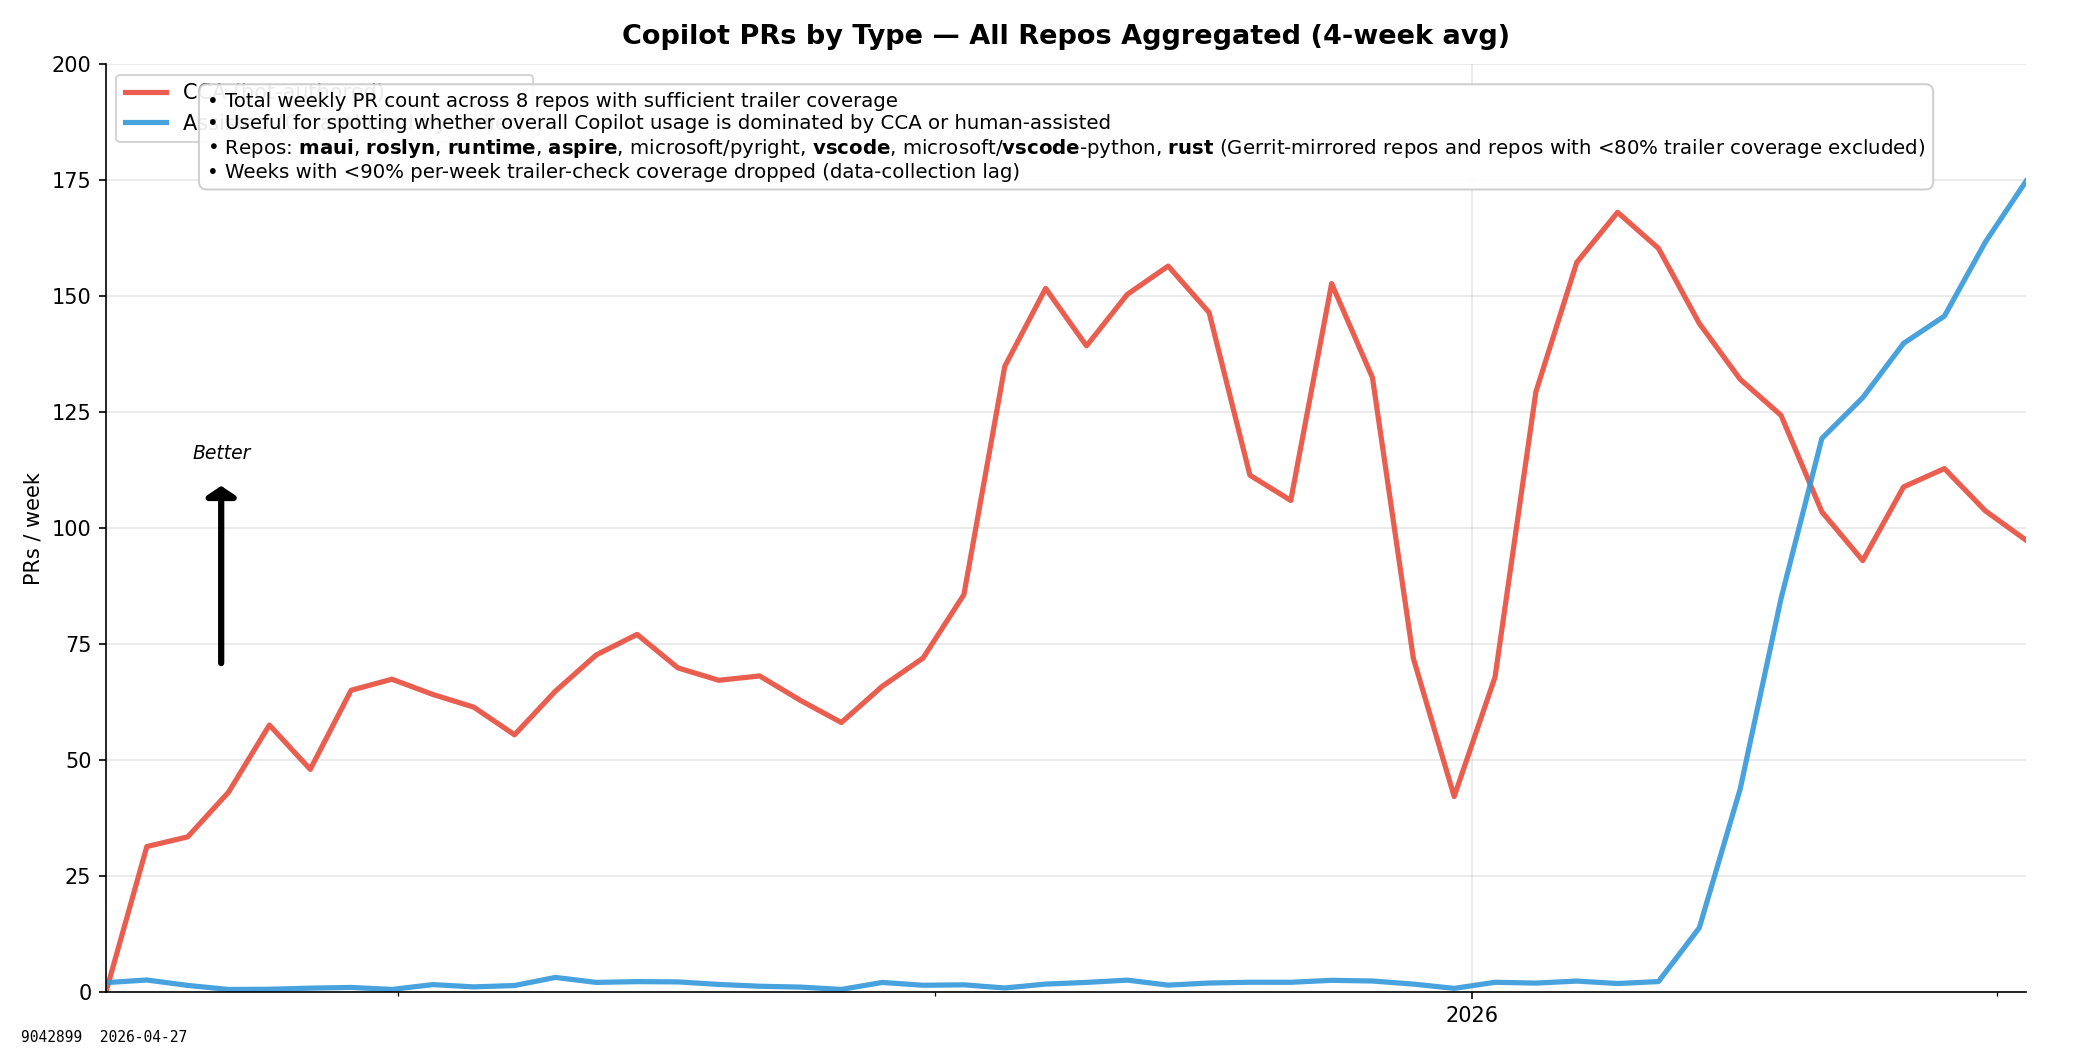
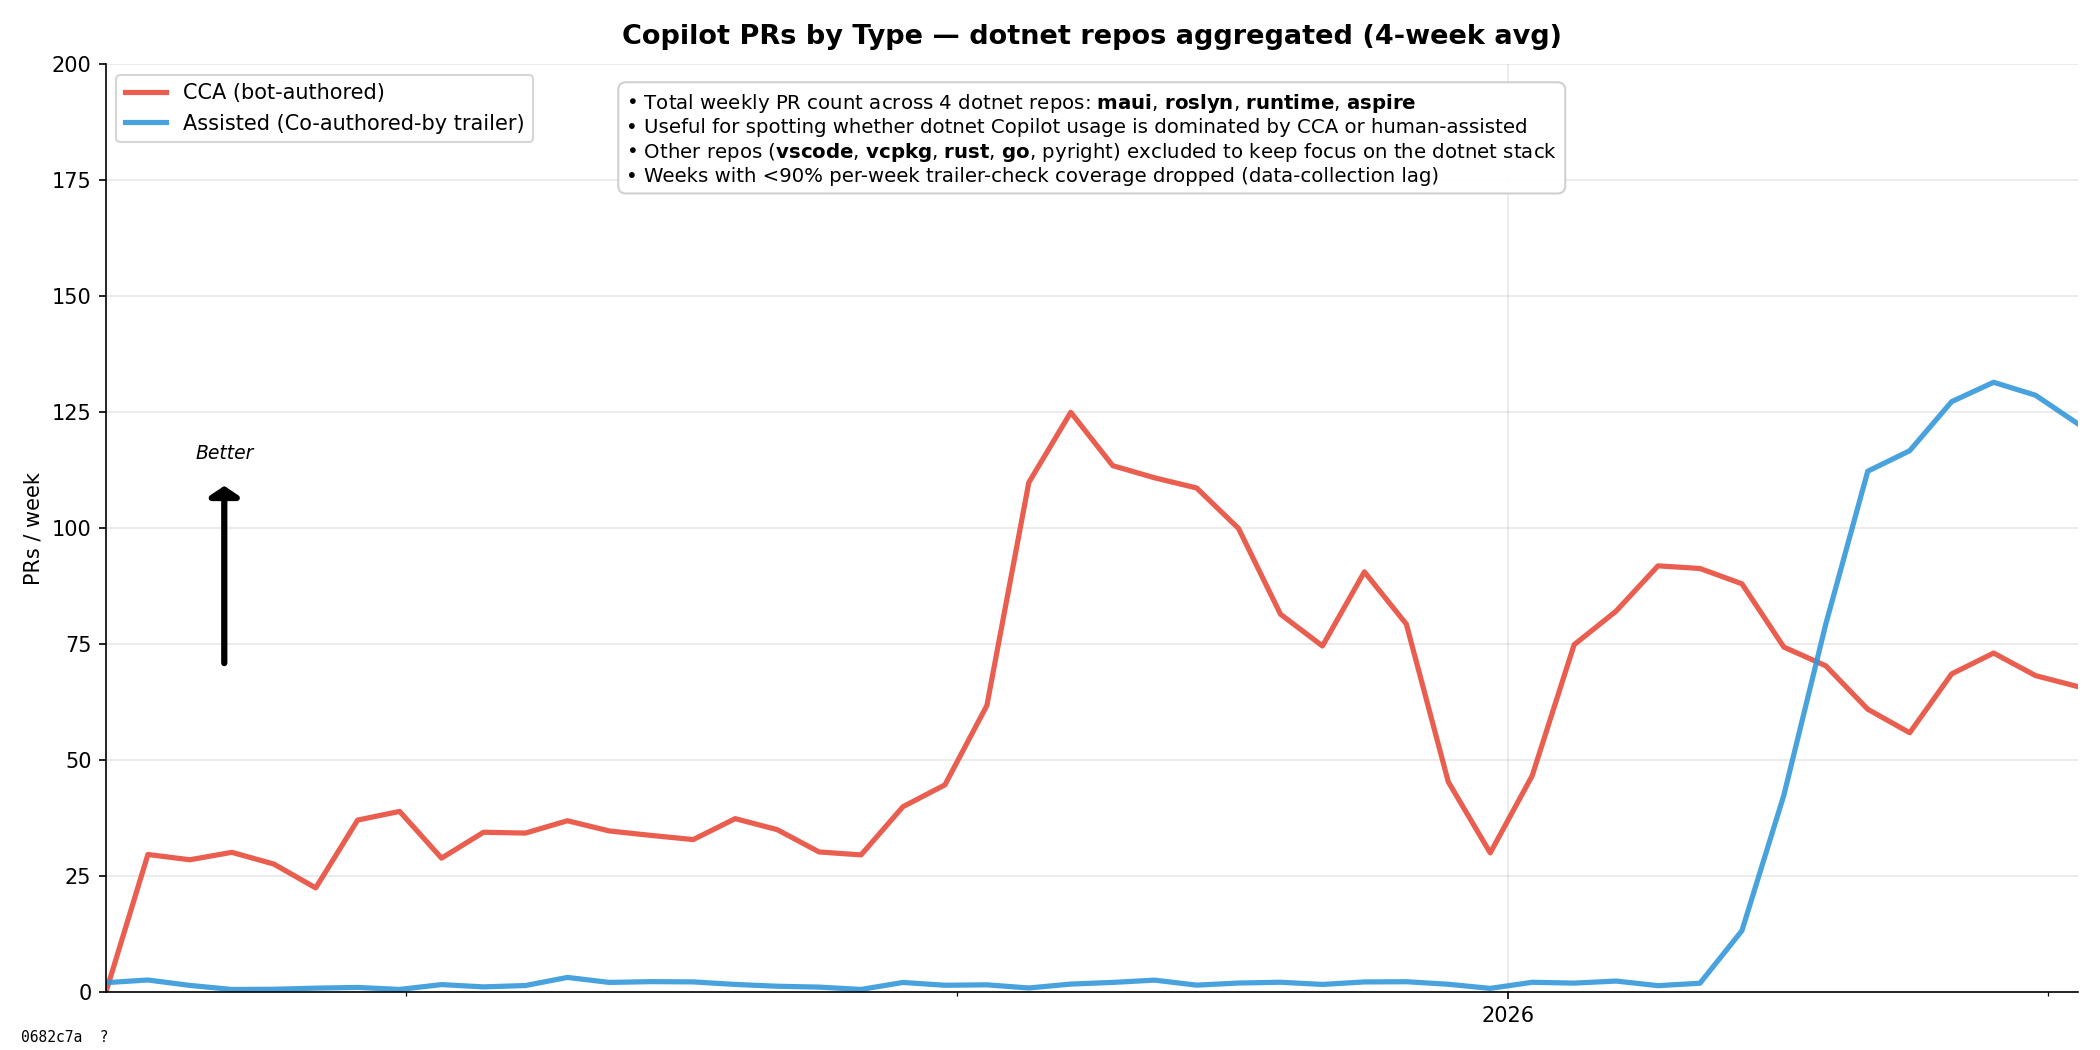
Restrict copilot type-aggregate chart to dotnet repos only
chart_copilot_by_type_aggregate (was 9042899, now 0682c7a):
- Restricted aggregate to dotnet/runtime, dotnet/roslyn, dotnet/maui, microsoft/aspire (intersected with repos that have >=80% trailer coverage)
- Title: 'Copilot PRs by Type — dotnet repos aggregated (4-week avg)'
- Insight bullets: lists the 4 repos by name, notes other repos (vscode, vcpkg, rust, go, pyright) are excluded to keep focus on the dotnet stack
- Keeps the per-week trailer-coverage gate and tight x-axis from the previous PR

diff --git a/analyze.py b/analyze.py
@@ -1963,9 +1963,9 @@ def chart_copilot_adoption(all_items, output_dir):
     plt.close(fig)
     print(f"  {path}")
 
-    # --- Chart 3: CCA vs Assisted aggregated across all repos ---
+    # --- Chart 3: CCA vs Assisted aggregated across dotnet repos ---
     fig, ax = plt.subplots(figsize=(14, 7))
-    setup_axes(ax, "Copilot PRs by Type — All Repos Aggregated (4-week avg)", "PRs / week")
+    setup_axes(ax, "Copilot PRs by Type — dotnet repos aggregated (4-week avg)", "PRs / week")
 
     # Track per-week trailer-check coverage so we can drop weeks where
     # the backfill hasn't caught up (otherwise Assisted is artifactually low).
@@ -1974,7 +1974,8 @@ def chart_copilot_adoption(all_items, output_dir):
     week_total = defaultdict(int)     # all PRs in week (including unknown)
     week_checked = defaultdict(int)   # PRs in week with copilot_trailer set
 
-    aggregate_repos = [r for r in repos_with_coverage if r not in GERRIT_REPOS]
+    DOTNET_AGGREGATE_REPOS = {"dotnet/runtime", "dotnet/roslyn", "dotnet/maui", "microsoft/aspire"}
+    aggregate_repos = [r for r in DOTNET_AGGREGATE_REPOS if r in repos_with_coverage]
 
     for repo in aggregate_repos:
         items = all_items.get(repo) or []
@@ -2020,9 +2021,9 @@ def chart_copilot_adoption(all_items, output_dir):
         add_direction_arrow(ax, "up")
         repos_str = ", ".join(get_short(r) for r in sorted(aggregate_repos))
         add_insight_box(ax, [
-            f"Total weekly PR count across {len(aggregate_repos)} repos with sufficient trailer coverage",
-            "Useful for spotting whether overall Copilot usage is dominated by CCA or human-assisted",
-            f"Repos: {repos_str} (Gerrit-mirrored repos and repos with <80% trailer coverage excluded)",
+            f"Total weekly PR count across {len(aggregate_repos)} dotnet repos: {repos_str}",
+            "Useful for spotting whether dotnet Copilot usage is dominated by CCA or human-assisted",
+            "Other repos (vscode, vcpkg, rust, go, pyright) excluded to keep focus on the dotnet stack",
             "Weeks with <90% per-week trailer-check coverage dropped (data-collection lag)",
         ])
     fig.tight_layout()
